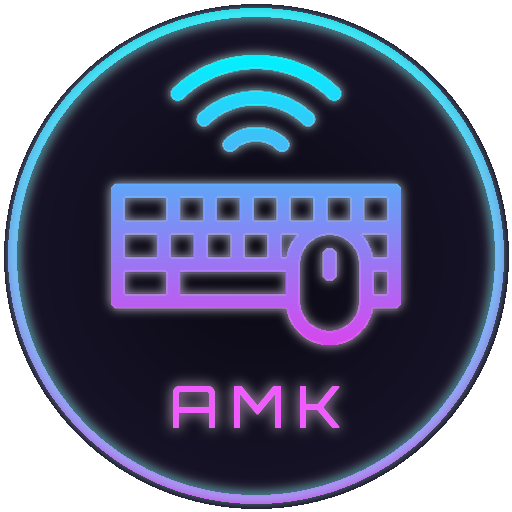
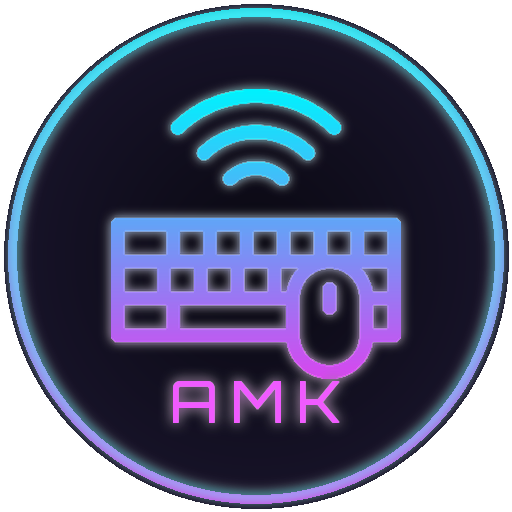
style(ui): tighten gap between keyboard and AMK text to 2px

Changed region(s): [[0.1875, 0.0938, 0.8125, 0.8438], [0.5312, 0.8125, 0.5625, 0.8438]]

diff --git a/scripts/generate_icons.py b/scripts/generate_icons.py
@@ -63,7 +63,15 @@ def generate_neon_amk_icons(base_image_path, project_root):
     art_size = 290
     scaled_art = colored_art.resize((art_size, art_size), Image.Resampling.LANCZOS)
     ox = (size - art_size) // 2
-    oy = 55
+
+    # Layout with exact 2px clearance
+    # Art bottom is at oy + 289
+    # Text glyph top is at text_y + 16
+    # 2px clearance: text_y + 16 = oy + 289 + 1 + 2  =>  text_y = oy + 276
+    gap_px = 2
+    total_group_h = 290 + gap_px + 41  # 333
+    oy = (size - total_group_h) // 2   # 89
+    text_y = oy + 274 + gap_px         # 365
 
     # Subtle neon bloom behind artwork
     art_glow = Image.new('RGBA', (size, size), (0, 0, 0, 0))
@@ -72,7 +80,7 @@ def generate_neon_amk_icons(base_image_path, project_root):
     bg.paste(art_glow, (0, 0), mask=art_glow)
     bg.paste(scaled_art, (ox, oy), mask=scaled_art)
 
-    # 4. Render 'AMK' with futuristic Orbitron font
+    # 4. Render 'AMK' with Orbitron font (2px distance below artwork)
     font = ImageFont.truetype(font_path, 56)
     text_layer = Image.new('RGBA', (size, size), (0, 0, 0, 0))
     t_draw = ImageDraw.Draw(text_layer)
@@ -81,10 +89,9 @@ def generate_neon_amk_icons(base_image_path, project_root):
     gap = 14
     total_w = sum(widths) + gap * (len(letters) - 1)
     cur_x = (size - total_w) // 2
-    ty = 370
     for l, lw in zip(letters, widths):
         for dx, dy in [(0,0), (1,0), (0,1), (1,1)]:
-            t_draw.text((cur_x + dx, ty + dy), l, font=font, fill=(240, 90, 255, 255))
+            t_draw.text((cur_x + dx, text_y + dy), l, font=font, fill=(240, 90, 255, 255))
         cur_x += lw + gap
 
     # Text glow
@@ -100,12 +107,15 @@ def generate_neon_amk_icons(base_image_path, project_root):
     master_circular.paste(bg, (0, 0), mask=final_mask)
 
     # 5. Master Adaptive Foreground (108dp viewport, safe area inner 66-72dp)
-    # Master size: 432x432
     fg_master_sz = 432
     fg_art_w = 230
     scaled_fg_art = colored_art.resize((fg_art_w, fg_art_w), Image.Resampling.LANCZOS)
     fg_ox = (fg_master_sz - fg_art_w) // 2
-    fg_oy = 40
+    
+    fg_font = ImageFont.truetype(font_path, 44)
+    fg_total_group_h = fg_art_w + 2 + 32
+    fg_oy = (fg_master_sz - fg_total_group_h) // 2
+    fg_text_y = fg_oy + fg_art_w + 2 - 12
 
     master_fg = Image.new('RGBA', (fg_master_sz, fg_master_sz), (0, 0, 0, 0))
     fg_glow = Image.new('RGBA', (fg_master_sz, fg_master_sz), (0, 0, 0, 0))
@@ -114,18 +124,16 @@ def generate_neon_amk_icons(base_image_path, project_root):
     master_fg.paste(fg_glow, (0, 0), mask=fg_glow)
     master_fg.paste(scaled_fg_art, (fg_ox, fg_oy), mask=scaled_fg_art)
 
-    # AMK text on foreground with Orbitron
-    fg_font = ImageFont.truetype(font_path, 44)
+    # AMK text on foreground with 2px gap
     fg_text_layer = Image.new('RGBA', (fg_master_sz, fg_master_sz), (0, 0, 0, 0))
     fg_t_draw = ImageDraw.Draw(fg_text_layer)
     fg_widths = [fg_t_draw.textbbox((0, 0), l, font=fg_font)[2] - fg_t_draw.textbbox((0, 0), l, font=fg_font)[0] for l in letters]
     fg_gap = 11
     fg_total_w = sum(fg_widths) + fg_gap * (len(letters) - 1)
     fg_cur_x = (fg_master_sz - fg_total_w) // 2
-    fg_ty = 295
     for l, lw in zip(letters, fg_widths):
         for dx, dy in [(0,0), (1,0), (0,1), (1,1)]:
-            fg_t_draw.text((fg_cur_x + dx, fg_ty + dy), l, font=fg_font, fill=(240, 90, 255, 255))
+            fg_t_draw.text((fg_cur_x + dx, fg_text_y + dy), l, font=fg_font, fill=(240, 90, 255, 255))
         fg_cur_x += lw + fg_gap
 
     fg_tglow = fg_text_layer.filter(ImageFilter.GaussianBlur(5))
@@ -156,7 +164,7 @@ def generate_neon_amk_icons(base_image_path, project_root):
 
     # Save master 512x512
     master_circular.save(os.path.join(project_root, 'app_icon_512.png'))
-    print("Master icon and all mipmap icons successfully updated with Orbitron typography!")
+    print("Master icon and all mipmap icons successfully updated with 2px gap!")
 
 if __name__ == '__main__':
     base_img = r'C:\Users\jmustapa\.gemini\antigravity-cli\brain\6b74d58d-c55f-46ba-9155-8da587264e82\.user_uploaded\uploaded_media_1789089184484.png'
